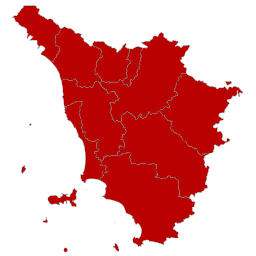
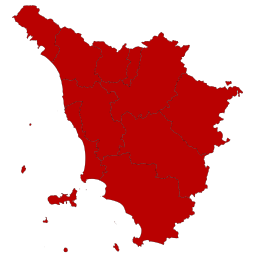
Enhance SIR Toscana integration: add data type selection in config flow, update changelog, and improve translations. Version bump to 0.2.1.

diff --git a/custom_components/sir_toscana/config_flow.py b/custom_components/sir_toscana/config_flow.py
@@ -16,7 +16,13 @@ from homeassistant.helpers.selector import (
 )
 
 from .api import SirStation, SirToscanaApi, SirToscanaApiError
-from .const import CONF_STATION_ID, CONF_STATION_NAME, DOMAIN
+from .const import (
+    CONF_DATA_TYPES,
+    CONF_STATION_ID,
+    CONF_STATION_NAME,
+    DOMAIN,
+    SUPPORTED_DATA_TYPES,
+)
 
 
 class SirToscanaConfigFlow(ConfigFlow, domain=DOMAIN):
@@ -25,12 +31,14 @@ class SirToscanaConfigFlow(ConfigFlow, domain=DOMAIN):
     VERSION = 1
 
     _stations: list[SirStation] | None = None
+    _selected_station: SirStation | None = None
+    _available_data_types: list[str] | None = None
 
     async def async_step_user(
         self,
         user_input: dict[str, Any] | None = None,
     ) -> ConfigFlowResult:
-        """Handle the initial step."""
+        """Select the SIR station."""
         errors: dict[str, str] = {}
         api = SirToscanaApi(async_get_clientsession(self.hass))
 
@@ -53,20 +61,26 @@ class SirToscanaConfigFlow(ConfigFlow, domain=DOMAIN):
                 errors["base"] = "station_not_found"
             else:
                 try:
-                    await api.async_get_station_data(station.station_id)
+                    station_data = await api.async_get_station_data(station.station_id)
                 except SirToscanaApiError:
                     errors["base"] = "cannot_connect"
                 else:
-                    await self.async_set_unique_id(station.station_id)
-                    self._abort_if_unique_id_configured()
+                    available_data_types = [
+                        data_type
+                        for data_type in SUPPORTED_DATA_TYPES
+                        if isinstance(station_data.get(data_type), dict)
+                    ]
 
-                    return self.async_create_entry(
-                        title=station.name,
-                        data={
-                            CONF_STATION_ID: station.station_id,
-                            CONF_STATION_NAME: station.name,
-                        },
-                    )
+                    if not available_data_types:
+                        errors["base"] = "no_supported_data"
+                    else:
+                        await self.async_set_unique_id(station.station_id)
+                        self._abort_if_unique_id_configured()
+
+                        self._selected_station = station
+                        self._available_data_types = available_data_types
+
+                        return await self.async_step_data_types()
 
         station_options: list[SelectOptionDict] = [
             SelectOptionDict(
@@ -91,6 +105,66 @@ class SirToscanaConfigFlow(ConfigFlow, domain=DOMAIN):
             step_id="user",
             data_schema=schema,
             errors=errors,
+        )
+
+    async def async_step_data_types(
+        self,
+        user_input: dict[str, Any] | None = None,
+    ) -> ConfigFlowResult:
+        """Select all desired data types available for the station."""
+        if self._selected_station is None or self._available_data_types is None:
+            return await self.async_step_user()
+
+        errors: dict[str, str] = {}
+
+        if user_input is not None:
+            selected_data_types = list(user_input.get(CONF_DATA_TYPES, []))
+
+            if not selected_data_types:
+                errors["base"] = "no_data_types_selected"
+            else:
+                allowed = set(self._available_data_types)
+                selected_data_types = [
+                    data_type
+                    for data_type in selected_data_types
+                    if data_type in allowed
+                ]
+
+                if not selected_data_types:
+                    errors["base"] = "no_data_types_selected"
+                else:
+                    return self.async_create_entry(
+                        title=self._selected_station.name,
+                        data={
+                            CONF_STATION_ID: self._selected_station.station_id,
+                            CONF_STATION_NAME: self._selected_station.name,
+                            CONF_DATA_TYPES: selected_data_types,
+                        },
+                    )
+
+        schema = vol.Schema(
+            {
+                vol.Required(
+                    CONF_DATA_TYPES,
+                    default=self._available_data_types,
+                ): SelectSelector(
+                    SelectSelectorConfig(
+                        options=self._available_data_types,
+                        multiple=True,
+                        mode=SelectSelectorMode.DROPDOWN,
+                        translation_key=CONF_DATA_TYPES,
+                    )
+                )
+            }
+        )
+
+        return self.async_show_form(
+            step_id="data_types",
+            data_schema=schema,
+            errors=errors,
+            description_placeholders={
+                "station_name": self._selected_station.name,
+            },
         )
 
     async def _async_get_stations(

diff --git a/custom_components/sir_toscana/sensor.py b/custom_components/sir_toscana/sensor.py
@@ -16,6 +16,7 @@ from homeassistant.const import (
     DEGREE,
     PERCENTAGE,
     EntityCategory,
+    UnitOfIrradiance,
     UnitOfPrecipitationDepth,
     UnitOfPressure,
     UnitOfSpeed,
@@ -26,7 +27,7 @@ from homeassistant.helpers.device_registry import DeviceInfo
 from homeassistant.helpers.entity_platform import AddConfigEntryEntitiesCallback
 from homeassistant.helpers.update_coordinator import CoordinatorEntity
 
-from .const import DOMAIN
+from .const import CONF_DATA_TYPES, DOMAIN
 from .coordinator import SirToscanaCoordinator
 
 SKIPPED_FIELDS = {"id", "speed_label"}
@@ -137,13 +138,16 @@ def _metadata(section: str, key: str) -> FieldMetadata:
             "mdi:water-percent",
         ),
         ("radio", "date"): FieldMetadata(
-            "Data rilevazione radiometro",
+            "Data rilevazione radianza",
             icon="mdi:clock-outline",
             entity_category=EntityCategory.DIAGNOSTIC,
         ),
         ("radio", "value"): FieldMetadata(
-            "Radiazione diretta",
-            icon="mdi:white-balance-sunny",
+            "Radianza",
+            UnitOfIrradiance.WATTS_PER_SQUARE_METER,
+            SensorDeviceClass.IRRADIANCE,
+            SensorStateClass.MEASUREMENT,
+            "mdi:white-balance-sunny",
         ),
         ("pluvio", "date"): FieldMetadata(
             "Data rilevazione precipitazioni",
@@ -236,13 +240,29 @@ async def async_setup_entry(
     coordinator: SirToscanaCoordinator = entry.runtime_data
     known_fields: set[tuple[str, str]] = set()
 
+    # Entries created before 0.2.1 do not contain CONF_DATA_TYPES.
+    # In that case preserve the previous behaviour and expose every
+    # section returned by the SIR endpoint.
+    configured_data_types = entry.data.get(CONF_DATA_TYPES)
+    selected_data_types = (
+        set(configured_data_types)
+        if configured_data_types is not None
+        else None
+    )
+
     @callback
     def async_add_new_fields() -> None:
-        """Add sensors for fields that appear in the station payload."""
+        """Add sensors for selected fields that appear in the station payload."""
         entities: list[SirToscanaSensor] = []
 
         for section, section_data in coordinator.data.items():
             if not isinstance(section_data, dict):
+                continue
+
+            if (
+                selected_data_types is not None
+                and section not in selected_data_types
+            ):
                 continue
 
             for key, value in section_data.items():

diff --git a/custom_components/sir_toscana/api.py b/custom_components/sir_toscana/api.py
@@ -14,7 +14,8 @@ from aiohttp import ClientError, ClientSession
 from .const import REQUEST_TIMEOUT, STATIONS_URL, STATION_TYPES, STATION_URL
 
 _ARRAY_RE = re.compile(
-    r'new\s+Array\(\s*"(?P<id>TOS\d+)"\s*,\s*"(?P<name>(?:\\.|[^"])*)"',
+    r'new\s+Array\(\s*"(?P<id>TOS\d+)"\s*,\s*"(?P<field1>(?:\\.|[^"])*)"'
+    r'(?:\s*,\s*"(?P<field2>(?:\\.|[^"])*)")?',
     re.IGNORECASE,
 )
 _TRANSPORT_SUFFIX_RE = re.compile(r"\s+\((?:RADIO|GPRS)\)\s*$", re.IGNORECASE)
@@ -48,13 +49,25 @@ class SirStation:
     name: str
 
 
-def parse_station_list(text: str) -> list[SirStation]:
+def parse_station_list(
+    text: str,
+    station_type: str | None = None,
+) -> list[SirStation]:
     """Extract station identifiers and names from a SIR monitoring page."""
     stations: list[SirStation] = []
 
     for match in _ARRAY_RE.finditer(text):
-        name = match.group("name")
-        name = name.replace(r'\"', '"').replace(r"\\", "\\")
+        # Hydrometric rows are structured as:
+        # ID, river, station, province, ...
+        # The other supported monitoring tables put the station name
+        # immediately after the ID.
+        raw_name = (
+            match.group("field2")
+            if station_type == "idro" and match.group("field2")
+            else match.group("field1")
+        )
+
+        name = raw_name.replace(r'\"', '"').replace(r"\\", "\\")
         stations.append(
             SirStation(
                 station_id=match.group("id"),
@@ -172,4 +185,4 @@ class SirToscanaApi:
         except (TimeoutError, ClientError) as err:
             raise SirToscanaConnectionError from err
 
-        return parse_station_list(text)
+        return parse_station_list(text, station_type)

diff --git a/custom_components/sir_toscana/const.py b/custom_components/sir_toscana/const.py
@@ -6,6 +6,7 @@ DOMAIN = "sir_toscana"
 
 CONF_STATION_ID = "station_id"
 CONF_STATION_NAME = "station_name"
+CONF_DATA_TYPES = "data_types"
 
 BASE_URL = "https://www.sir.toscana.it/monitoraggio"
 STATION_URL = BASE_URL + "/actions.php?action=station&id={station_id}"
@@ -13,14 +14,18 @@ STATIONS_URL = BASE_URL + "/stazioni.php?type={station_type}"
 
 # Public real-time monitoring tables currently verified on the SIR portal.
 # Mareographic stations are also present in the hydrometric table.
-STATION_TYPES = (
+# The same SIR tables are used to discover stations for the config flow.
+SUPPORTED_DATA_TYPES = (
     "anemo",
+    "radio",
     "pluvio",
     "termo",
     "igro",
     "idro",
     "nivo",
 )
+
+STATION_TYPES = SUPPORTED_DATA_TYPES
 
 DEFAULT_UPDATE_INTERVAL = timedelta(minutes=15)
 REQUEST_TIMEOUT = 20

diff --git a/README.md b/README.md
@@ -25,6 +25,7 @@ Il primo pulsante aggiunge/apre il repository in HACS. Il secondo avvia il Confi
 ## Funzionalità
 
 - configurazione da interfaccia Home Assistant tramite Config Flow;
+- selezione delle tipologie di dati disponibili per ciascuna stazione;
 - elenco delle stazioni acquisito automaticamente dal portale SIR;
 - selezione della stazione tramite menu Home Assistant;
 - nessuna necessità di conoscere o digitare il codice `TOS...`;
@@ -100,6 +101,26 @@ Prato Università — TOS01001205
 ```
 
 Il codice viene salvato internamente come identificativo stabile della stazione, mentre il nome pubblicato dal SIR viene utilizzato come nome del dispositivo Home Assistant.
+
+## Selezione delle tipologie di dati
+
+Dopo la scelta della stazione, il Config Flow interroga il relativo endpoint SIR e propone **tutte le macro-tipologie supportate effettivamente presenti nel payload**.
+
+Le tipologie gestite sono:
+
+- `anemo` — Anemometria / vento;
+- `radio` — Radiometria / radianza, in `W/m²`;
+- `pluvio` — Pluviometria / precipitazioni;
+- `termo` — Termometria / temperatura;
+- `igro` — Igrometria / umidità relativa;
+- `idro` — Idrometria / livelli e portate;
+- `nivo` — Nivometria / neve.
+
+Tutte le tipologie disponibili sono preselezionate; l'utente può deselezionare quelle che non desidera esporre in Home Assistant.
+
+La richiesta HTTP al SIR continua a restituire l'intero payload della stazione. La selezione determina quali sezioni vengono trasformate in entità Home Assistant.
+
+Le configurazioni create con versioni precedenti, prive del campo `data_types`, mantengono il comportamento precedente ed espongono tutte le sezioni restituite dal SIR.
 
 ## Aggiornamento dei dati
 

diff --git a/CHANGELOG.md b/CHANGELOG.md
@@ -1,5 +1,17 @@
 # Changelog
 
+## 0.2.1
+
+- Aggiunto il secondo step del Config Flow per selezionare le tipologie di dati.
+- Tutte le tipologie SIR supportate sono selezionabili: `anemo`, `radio`, `pluvio`, `termo`, `igro`, `idro`, `nivo`.
+- Le opzioni mostrate dipendono dai blocchi realmente restituiti dalla stazione.
+- Tutte le tipologie disponibili sono preselezionate per impostazione predefinita.
+- Aggiunta `radio` alla discovery delle stazioni.
+- Corretto il parsing della tabella idrometrica, dove il nome della stazione è preceduto dal nome del fiume.
+- `radio.value` è esposto come Radianza in `W/m²` con device class `irradiance`.
+- Mantenuta la compatibilità con le configurazioni precedenti prive di `data_types`.
+
+
 ## 0.1.1
 
 - Allineato il polling a 15 minuti.
